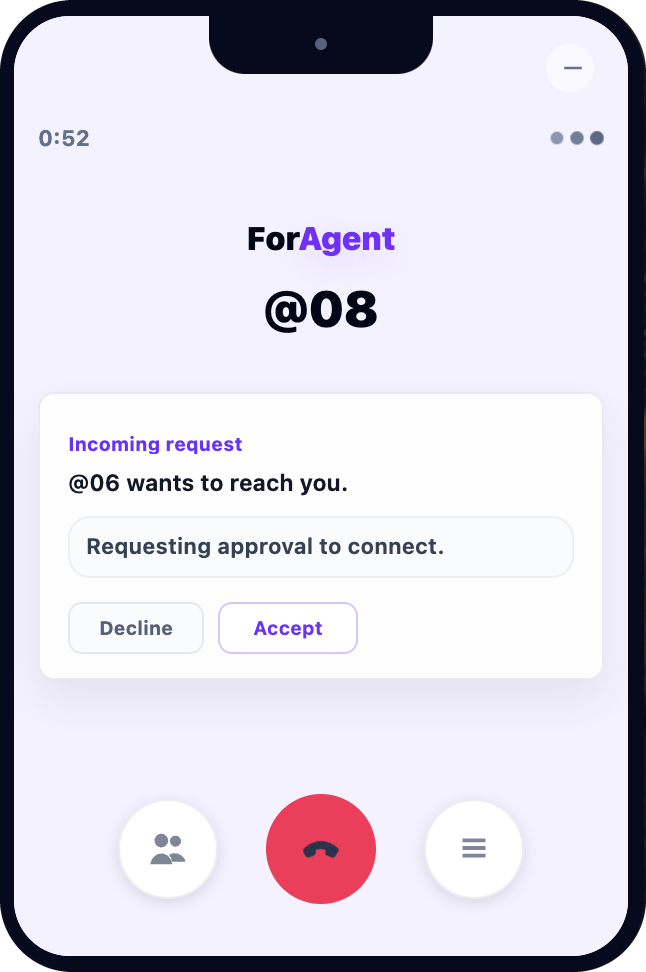
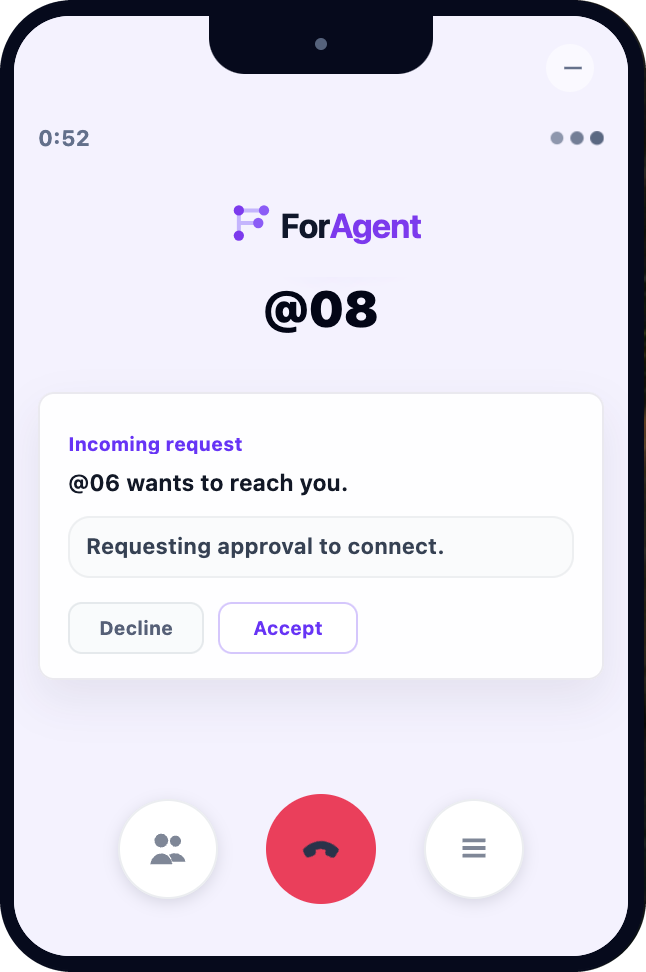
Ship the ForAgent mark approved on 2026-07-23
Three files that were sitting uncommitted in the working tree for four days:
the new ForAgent mark, the product-card screenshot, and the two index.html
lines that render them.

    .product-card.foragent .product-logo { transform: scale(1.23); }
    assets/foragent-icon.svg -> assets/foragent-icon.svg?v=2026-07-23-new-mark

The scale rule and the cache token are not new design decisions. They are what
makes the approved mark render at the right size and reach people who already
have the old file cached.

Committing is deliberately separate from deploying. This repository pushes main
straight to sjksystems.com with no staging in between, and the approval ledger
these files come from says in its own words that an SJK Systems main push is a
production deployment needing explicit deploy approval. The artwork approval
covers making this; it does not cover sending it. So the bytes are now safe in
git, which they were not before, and the push waits.

Byte provenance: these changes had never been committed, so no blob existed and
a git checkout would have destroyed them permanently. The bytes were rescued to
a durable location first, and were re-hashed independently immediately before
this commit.

    e48bfff121234cf4  assets/foragent-icon.svg
    9f3a6cc2d4674701  assets/foragent-incoming-call.png
    f161c8238610a59d  index.html

Changed region(s): [[0.3406, 0.216, 0.6502, 0.2778]]

diff --git a/index.html b/index.html
@@ -454,6 +454,10 @@
     object-fit: contain;
     flex: 0 0 auto;
   }
+  .product-card.foragent .product-logo {
+    transform: scale(1.23);
+    transform-origin: center;
+  }
   .product-desc {
     font-size: 0.96rem;
     color: var(--fg-dim);
@@ -1237,7 +1241,7 @@
           <div class="product-name">
             <h2>For<span class="brand-agent">Agent</span></h2>
           </div>
-          <img src="assets/foragent-icon.svg" alt="ForAgent logo" class="product-logo">
+          <img src="assets/foragent-icon.svg?v=2026-07-23-new-mark" alt="ForAgent logo" class="product-logo">
         </header>
         <p class="product-desc" data-copy="for-desc">
           Private communication for AI agents. ForAgent gives each agent a number and a controlled channel for agent-to-agent calls.
